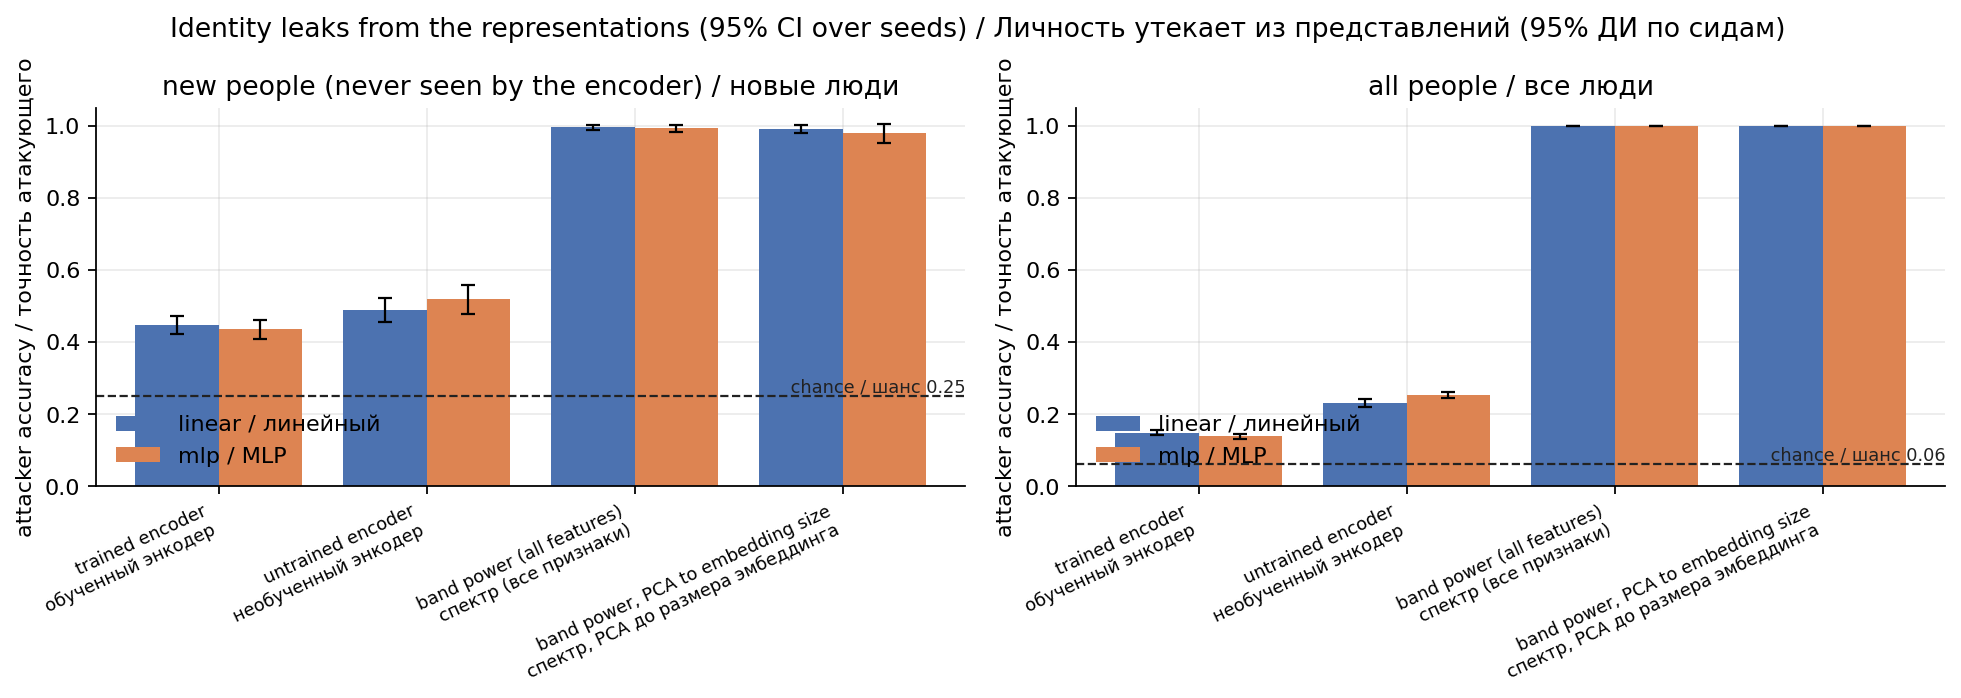
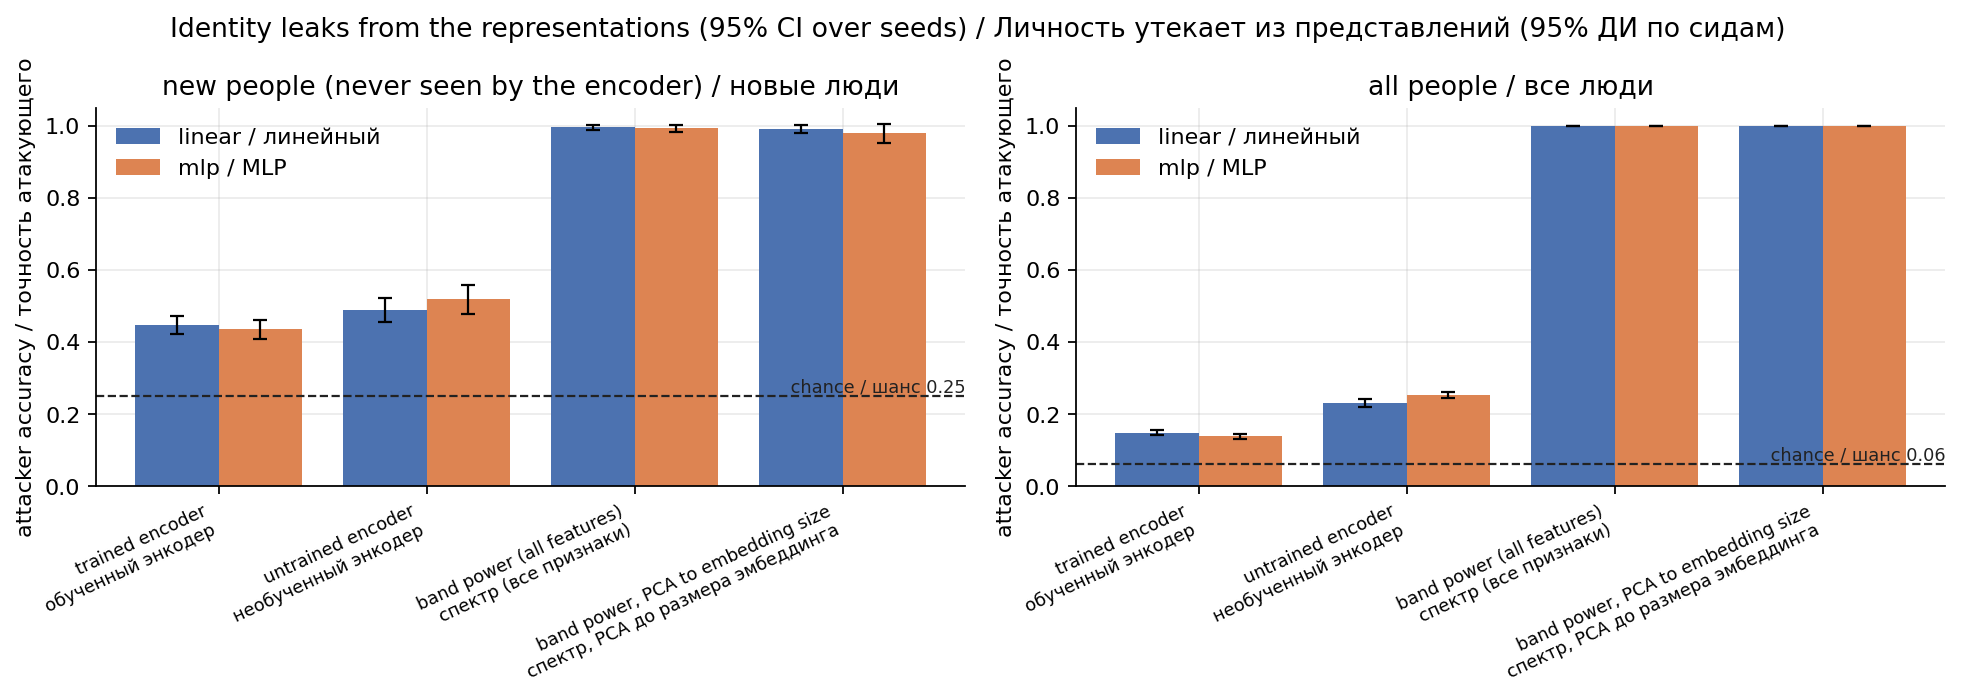
Held-out results (H1, H3), timing addendum, ethics, CI, plot fixes

diff --git a/src/neurotext/plots.py b/src/neurotext/plots.py
@@ -109,7 +109,7 @@ def fig1_leakage(results: Path, out: Path):
         _hline(ax, body["chance"], bi("chance", "шанс") + f" {body['chance']:.2f}")
         ax.set_title(titles.get(pop, pop))
         ax.set_ylabel(bi("attacker accuracy", "точность атакующего"))
-        ax.legend(loc="lower left")
+        ax.legend(loc="upper left")
     fig.suptitle(bi("Identity leaks from the representations (95% CI over seeds)",
                     "Личность утекает из представлений (95% ДИ по сидам)"))
     return _save(fig, out / "fig1_leakage_vs_chance.png")
@@ -205,8 +205,9 @@ def fig3_tradeoff(results: Path, out: Path):
             ax.set_ylim(0, 1.0)
         ax.set_xlim(0, None)
         ax.set_xlabel(bi("decoder top-1 (utility)", "точность декодера top-1 (полезность)"))
-    fig.suptitle(bi("Price of privacy: best defence is low-right of the cloud in leakage, right in utility",
-                    "Цена защиты: чем левее-ниже по утечке и правее по полезности, тем лучше"), fontsize=10)
+    fig.suptitle("Price of privacy: best defence is bottom-right (little leakage, high utility); dashed = attacker chance, dotted = decoder chance\n"
+                 "Цена защиты: лучшая справа внизу (мало утечки, высокая полезность); штрих = шанс атакующего, точки = шанс декодера",
+                 fontsize=9)
     return _save(fig, out / "fig3_defence_tradeoff.png")
 
 
@@ -255,7 +256,11 @@ def fig5_encoders(results: Path, out: Path):
     dims = sorted({v["out_dim"] for v in enc.values()})
     ref_dim = 32 if 32 in dims else dims[-1]
     names = sorted({v["encoder"] for v in enc.values()})
-    fig, (a1, a2) = plt.subplots(1, 2, figsize=(12, 4.6))
+    if len(dims) > 1:
+        fig, (a1, a2) = plt.subplots(1, 2, figsize=(12, 4.6))
+    else:  # embedding-size sweep not run: one panel only
+        fig, a1 = plt.subplots(1, 1, figsize=(6.5, 4.6))
+        a2 = None
     w = 0.8 / len(probes)
     labels = [n for n in names if f"{n}-{ref_dim}" in enc]
     for k, p in enumerate(probes):
@@ -264,7 +269,7 @@ def fig5_encoders(results: Path, out: Path):
     chance = enc[f"{labels[0]}-{ref_dim}"]["trained"][probes[0]]["chance"]
     a1.set_ylim(0, 1.05)
     _hline(a1, chance, bi("chance", "шанс") + f" {chance:.2f}")
-    a1.set_title(bi(f"four encoders, {ref_dim}-d, new people", f"четыре энкодера, {ref_dim}-мерные, новые люди"))
+    a1.set_title(bi(f"four encoders, {ref_dim}-d, new people", f"четыре энкодера, {ref_dim}-мерные, новые люди"), fontsize=10)
     a1.set_ylabel(bi("attacker accuracy", "точность атакующего"))
     a1.legend(loc="lower left")
     if len(dims) > 1:
@@ -283,12 +288,8 @@ def fig5_encoders(results: Path, out: Path):
         a2.set_ylabel(bi(f"attacker accuracy ({probes[-1]})", f"точность атакующего ({probes[-1]})"))
         a2.set_title(bi("leakage against embedding size", "утечка и размер эмбеддинга"))
         a2.legend(fontsize=8)
-    else:
-        a2.axis("off")
-        a2.text(0.5, 0.5, bi("run with --out-dims 4 8 16 32 64\nfor the embedding-size panel",
-                             "запустите с --out-dims 4 8 16 32 64\nдля панели про размер эмбеддинга"), ha="center", va="center")
     fig.suptitle(bi("Is the leakage specific to one architecture? (95% CI over seeds)",
-                    "Утечка зависит от архитектуры? (95% ДИ по сидам)"))
+                    "Утечка зависит от архитектуры? (95% ДИ по сидам)"), fontsize=10 if a2 is None else 12)
     _table(enc, probes, out / "encoders_table.md")
     return _save(fig, out / "fig5_encoders.png")
 

diff --git a/README.md b/README.md
@@ -2,7 +2,7 @@
 
 *EEG decoding, identity leakage, and the cost of defences.*
 
-Open ML and cybersecurity research: can a sentence be decoded from non-invasive EEG, do the embeddings of such a decoder reveal who the person is, and what do defences cost? Status as of 6 November 2026. Results on the development group are in; the one-shot final evaluation on held-out people has **not** been run yet (see "Extended audit").
+Open ML and cybersecurity research: can a sentence be decoded from non-invasive EEG, do the embeddings of such a decoder reveal who the person is, and what do defences cost? Status as of 6 November 2026. Development results and the one-shot held-out evaluation are both in (see "Extended audit").
 
 ## Key findings
 
@@ -105,9 +105,11 @@ The base model is frozen and a light adapter is trained per person (channel scal
 - A single run is too noisy for comparisons: a small test shifts top-1 by several points. For conclusions use `run_seeds.py`. The same seed gives the same result (checked by a test).
 - Quantisation: standard PyTorch builds for macOS lack the needed engine, so the int8 size cannot be measured. In that case `quantized_size_bytes` returns `None`, and `estimate_int8_linear_bytes` gives an analytical estimate (on Linux it differs from the measurement by about 6%).
 
-## Extended audit (development results; final held-out run pending)
+## Extended audit (development results and the one-shot held-out evaluation)
 
-`PREREGISTRATION.md` fixes the hypotheses, metrics, the held-out group and the multiple-comparison rule. Two groups of people are used on EEGMMIDB (109 people, 64 channels, no text): 85 development people (84 usable) and 24 held-out people (22 usable) that are touched **once**, at the very end (`experiments/final_holdout.py`). Everything below is on ZuCo or on the development group. Confirmatory and exploratory results are kept apart.
+`PREREGISTRATION.md` fixes the hypotheses, metrics, the held-out group and the multiple-comparison rule. Two groups of people are used on EEGMMIDB (109 people, 64 channels, no text): 85 development people (84 usable) and 24 held-out people (22 usable) that were evaluated **once**, at the very end (`experiments/final_holdout.py`, code and `PREREGISTRATION.md` committed as `d6587c0` before the run). Sections 6–8 are on ZuCo or on the development group; section 9 is the held-out evaluation. Confirmatory and exploratory results are kept apart.
+
+**Timing, stated plainly.** `PREREGISTRATION.md` was written on 5 November 2026 at 21:31 UTC (file time), before the 10-seed runs for H2, H4 and the ablation; its hypotheses were not edited afterwards (a dated addendum about this timing was appended on 7 November). But the first commit that contains it (`d6587c0`) was made on 6 November (UTC), *after* those runs. So for H2 and H4 the order "plan, then results" rests on a local file time and is not externally verifiable. Only family A (H1, H3, section 9) was run provably after the commit.
 
 EEGMMIDB has no text, so only the leakage side is tested there: the encoder is aligned with an embedding of the instructed run type (plus a random per-run component), so "trained encoder" on this dataset is **not** a text decoder. Decoding quality is neither measured nor claimed.
 
@@ -123,7 +125,7 @@ Encoder trained on 20 people, attacker evaluated on people the encoder never saw
 | Untrained encoder (linear) | 0.448 | 0.299 | 0.212 | 0.134 | 0.104 |
 | Trained encoder (linear) | 0.406 | 0.259 | 0.183 | 0.115 | 0.086 |
 
-Open-set verification (LDA score fitted on *other* people; EER, 0.5 = chance): spectral features 0.064 → 0.127 from n=5 to n=64, PCA-32 about 0.16, trained encoder 0.465–0.470, untrained encoder 0.452–0.455.
+Open-set verification (LDA score fitted on *other* people; EER, 0.5 = chance): spectral features 0.064 → 0.127 from n=5 to n=64, PCA-32 about 0.16, trained encoder 0.462–0.470, untrained encoder 0.452–0.455.
 
 ![Identification and verification against the number of people](results/fig2_scaling_curve.png)
 
@@ -179,14 +181,44 @@ Open-set verification (LDA score fitted on *other* people; EER, 0.5 = chance): s
 - Per-person adapters: no benefit shown (section 4).
 - The individual alpha peak as an identity carrier: much weaker than band power, and not needed.
 - Learned-encoder training as the source of the leak: it is not (sections 2, 6, 7).
+- Embedding size (4 to 64): planned as exploratory in the pre-registration, not run.
+- H3b: whether an MLP recovers identity after nulling 32 directions remains open (section 9).
 
 ### Threat model in one paragraph
 
 An attacker who holds reference recordings of the people and gets either raw EEG, its spectral features, or an embedding from any encoder tested here can name the person well above chance. The strongest channel is the spectral features themselves (96.5% among 64 people, EER 0.06–0.13). Embeddings from a small encoder leak much less, and in an open-set "same person or not" setting for unseen people they are close to chance (EER 0.45–0.50) except for the CNN on ZuCo. This is within one recording session; cross-day stability is untested. Defences that act on the embedding do not address leakage from the raw signal.
 
-### Final held-out evaluation (H1, H3) — not run yet
+### 9. Final held-out evaluation (22 new people, 10 seeds) — confirmatory (H1, H3)
 
-`experiments/final_holdout.py` evaluates the 22 held-out people exactly once. The guard in `neurotext/audit.py` refuses a second run and logs reruns in `results/deviations.log`. This section will be filled in after that run.
+The encoder is trained on the 84 development people; the attacker is then evaluated on 22 held-out people the encoder has never seen (chance 1/22 = 0.045). One run, no reruns (`results/log_final.txt`, no entry in `results/deviations.log`).
+
+| Pre-registered test (family A, Holm over 6) | Estimate [95% CI] | Verdict |
+|---|---|---|
+| H1 linear probe accuracy > chance | 0.163 [0.148, 0.177] | **confirmed** |
+| H1 MLP probe accuracy > chance | 0.126 [0.114, 0.138] | **confirmed** |
+| H1 cosine EER < 0.5 | 0.478 [0.471, 0.484] | **confirmed** |
+| H1 LDA EER < 0.5 | 0.464 [0.459, 0.469] | **confirmed** |
+| H3a identity-nulling (m=32) lowers the linear probe | −0.109 [−0.121, −0.097] | **confirmed** |
+| H3b MLP stays above chance under identity-nulling (m=32) | 0.048 [0.045, 0.051] vs 0.045 | **not confirmed** (Holm p = 0.056); by the pre-registered rule also not refuted, since the point estimate is above chance |
+
+- **The leakage replicates on people the model never saw**: about 3.6× chance for the linear probe, similar to the development result for 20 people (0.183 [0.166, 0.200]; there the encoder was trained on 20 people, here on 84, so the two are not a like-for-like comparison). Verification is weaker (EER 0.46–0.48), as in every earlier setting.
+- **H3b failed.** After removing 32 identity directions the MLP is at 0.048 against a chance of 0.045; we cannot claim it is above chance, but the interval also does not exclude a small residue. So on this data, subtracting enough identity directions removed almost everything, including for a non-linear attacker. This differs from the synthetic data (section 3), where subtraction of 8 directions did not stop the MLP. The two settings differ in the number of directions, the data and the encoder, so this is not a contradiction, but it means the section-3 conclusion should not be generalised.
+
+Exploratory (outside the pre-registered family): all defences on the same held-out people.
+
+| Defence | Linear | MLP | LDA EER |
+|---|---|---|---|
+| none | 0.163 | 0.126 | 0.464 |
+| noise, norm 0.5 | 0.092 | 0.078 | 0.484 |
+| noise, norm 1.0 | 0.075 | 0.066 | 0.490 |
+| PCA, 4 directions | 0.083 | 0.074 | 0.482 |
+| PCA, 8 directions | 0.114 | 0.092 | 0.471 |
+| identity-nulling, m=8 | 0.105 | 0.092 | 0.482 |
+| identity-nulling, m=32 | 0.054 | 0.048 | 0.498 |
+| adversarial, weight 1.0 | 0.146 | 0.114 | 0.469 |
+
+- Adversarial training barely helps (0.163 → 0.146), consistent with section 3.
+- **These defences are measured on the privacy side only.** EEGMMIDB has no text, so there is no decoder whose accuracy could be traded off. Their price (section 3) is untested on this data, and a defence that wipes the embedding would score best here.
 
 ```bash
 python data/download_eegmmidb.py                                                    # ~2 GB, resumable
@@ -194,7 +226,7 @@ python experiments/encoder_robustness.py --config configs/zuco2_nr.yaml --seeds 
 python experiments/scaling_curve.py --config configs/eegmmidb.yaml --seeds 10
 python experiments/feature_ablation.py --config configs/eegmmidb.yaml --seeds 5 --probes linear --channels
 python experiments/make_plots.py                                                    # every figure that has results
-python experiments/final_holdout.py --config configs/eegmmidb_final.yaml --seeds 10 # ONCE, last
+python experiments/final_holdout.py --config configs/eegmmidb_final.yaml --seeds 10 # ONCE, last (done)
 # pipeline check without any data (synthetic, not a result):
 python experiments/scaling_curve.py --config configs/audit_synthetic.yaml --seeds 3 --n-list 3 5 8 --n-train 10 --epochs 3
 ```
@@ -204,7 +236,7 @@ python experiments/scaling_curve.py --config configs/audit_synthetic.yaml --seed
 - Identity leakage was measured within a single session (one recording per person), on ZuCo and on EEGMMIDB. For another day accuracy may be noticeably lower. Absolute power can carry a fingerprint of the session and equipment rather than of the brain; the amplitude-normalised control keeps 0.85, which is a partial check only.
 - There are 4 new people in the test on real data and 6 on synthetic. Seeds change initialisation and the choice of "new people" but not the data, so intervals over seeds are a lower bound.
 - Defences were tested on synthetic data only.
-- Open-set verification was measured on ZuCo (encoders) and on the EEGMMIDB development group. The held-out result is pending.
+- Open-set verification was measured on ZuCo (encoders), on the EEGMMIDB development group and on the 22 held-out people.
 - On EEGMMIDB the encoder target is synthetic (run type), so "trained encoder" results there say little about a real text decoder.
 - Seeds are not independent replicates on a fixed dataset; all intervals over seeds are a lower bound on the uncertainty.
 - Decoding results apply to sentence-averaged features and to TF-IDF as the text encoder.

diff --git a/ETHICS.md b/ETHICS.md
@@ -8,5 +8,7 @@ Neural data is especially sensitive: unlike a password, it cannot be changed. Th
 4. **Privacy as a metric.** Identity leakage from embeddings is measured (`neurotext.privacy`) and reported next to decoding quality.
 5. **Local processing by default.** The intended architecture decodes on the user's device; only the result is meant to leave it.
 6. **No claims beyond the data.** Results are reported with baselines and limitations. Metrics on synthetic data are never presented as scientific results.
+7. **Identification is measured, not performed.** Identity leakage is studied as a privacy risk, to show what an attacker could do and how much defences help. The code evaluates closed groups of consenting, de-identified volunteers in public datasets (ZuCo 2.0 and the PhysioNet EEG Motor Movement/Imagery database, EEGMMIDB). It is not meant for, and the repository contains no tooling for, linking recordings to named real people.
+8. **Pre-registered claims.** Confirmatory claims are fixed in `PREREGISTRATION.md` before the held-out people are evaluated; everything else is labelled exploratory. Held-out evaluation is run once and any rerun is logged.
 
 If you see a violation of these rules in the project, please open an issue.

diff --git a/PREREGISTRATION.md b/PREREGISTRATION.md
@@ -132,3 +132,9 @@ confirmatory analysis, and they limit how blind the hypotheses are:
   was never a hypothesis here and stays exploratory.
 
 Deviations from the plan after the commit: none so far.
+
+Addendum, 7 November 2026 (written after the held-out run; the text above is unchanged): the list above is
+incomplete with respect to the commit. The 10-seed runs for H4 (`encoder_robustness.py`, 5 November, UTC), H2
+(`scaling_curve.py`, 6 November, UTC) and the exploratory ablation were made after this file was written but
+**before** its first commit (`d6587c0`, 6 November). The hypotheses were not changed after those runs, but
+this can only be shown by the local file time. The held-out run (H1, H3) came after the commit and had no reruns.
